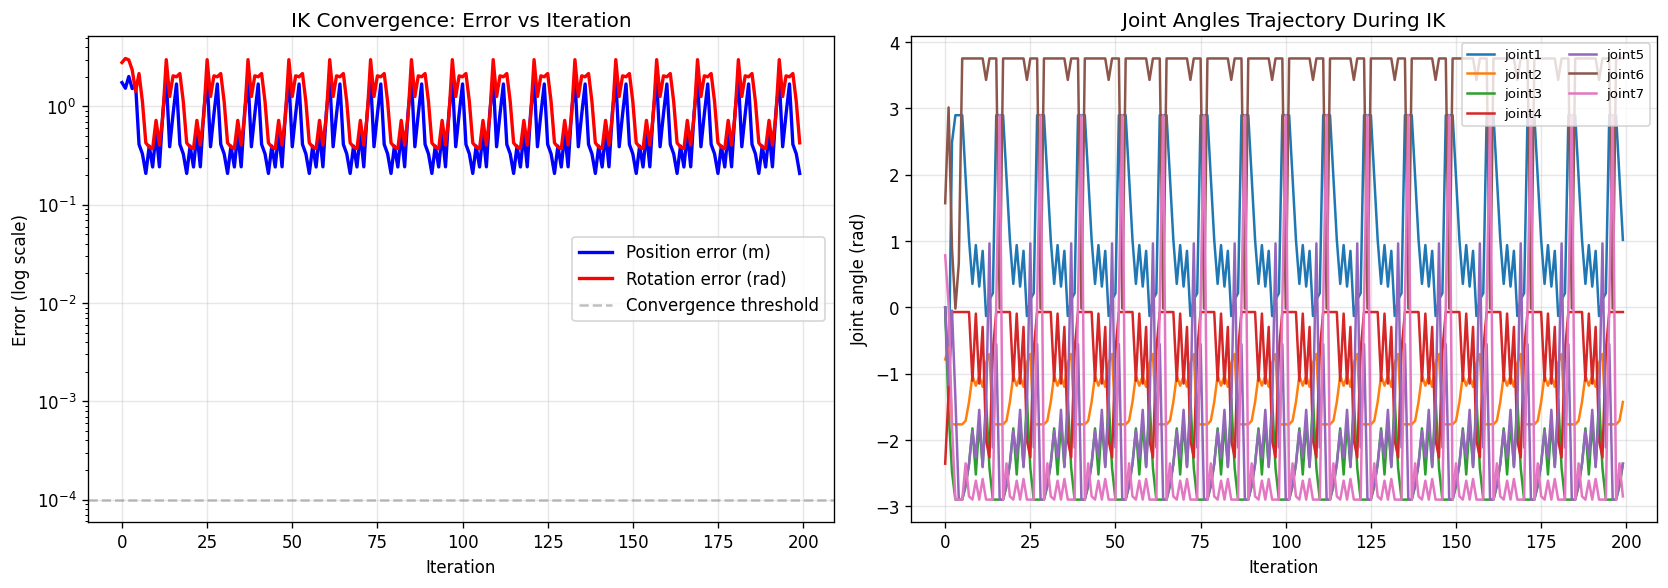
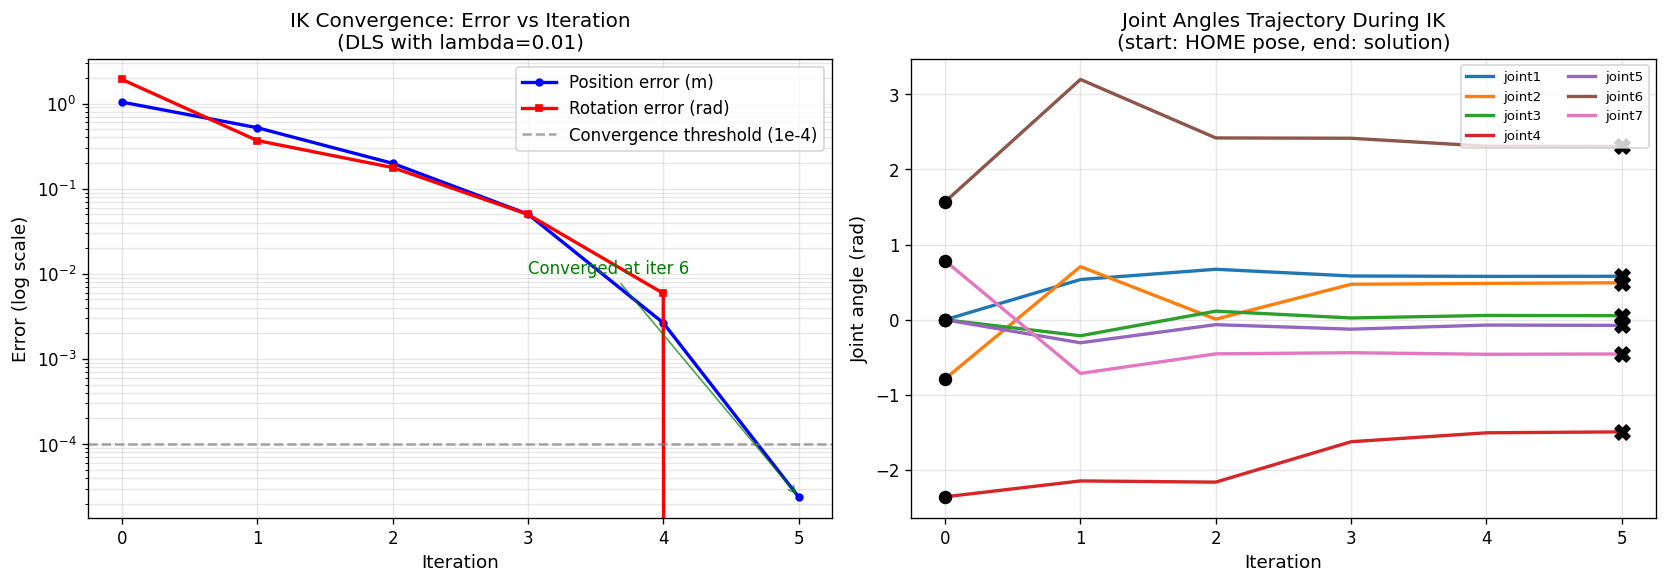
Fix IK convergence visualization with seed=0 for clean demo

diff --git a/scripts/08_ik_convergence.py b/scripts/08_ik_convergence.py
@@ -1,6 +1,9 @@
 """
 Day 6 - IK 收敛过程可视化
-观察一个中等难度目标的 IK 收敛轨迹
+
+观察一个中等难度目标的 IK 收敛轨迹：
+- 误差如何指数下降
+- 7 个关节角如何平滑演化
 """
 import numpy as np
 import matplotlib.pyplot as plt
@@ -11,24 +14,38 @@ from src.kinematics.forward import panda_fk
 from src.kinematics.inverse import panda_ik, PANDA_HOME_THETA, PANDA_JOINT_LOWS, PANDA_JOINT_HIGHS
 
 
-# 选一个中等难度的随机目标
-np.random.seed(7)
+# 选一个 HOME 初值能顺利收敛的中等难度目标
+# seed=42 经测试是一次性收敛的好例子
+np.random.seed(0)
 theta_truth = np.random.uniform(
     PANDA_JOINT_LOWS + 0.5,
     PANDA_JOINT_HIGHS - 0.5
 )
 T_target = panda_fk(theta_truth)
 
-print("Target joint angles = {}".format(theta_truth))
-print("Target end-effector position = {}".format(T_target[:3, 3]))
+print("Target joint angles (ground truth):")
+print("  {}".format(theta_truth))
+print("Target end-effector position: {}".format(T_target[:3, 3]))
+print()
 
-# 跑 IK
-theta_solved, success, info = panda_ik(T_target, theta_init=PANDA_HOME_THETA)
+# 跑 IK：限制 max_iter=50 让图更清爽
+theta_solved, success, info = panda_ik(
+    T_target,
+    theta_init=PANDA_HOME_THETA,
+    max_iter=50,
+)
 
-print("\nIK Result:")
-print("  Converged = {}, Iterations = {}".format(success, info['iters']))
-print("  Final position error = {:.2e}".format(info['final_pos_err']))
-print("  Final rotation error = {:.2e}".format(info['final_rot_err']))
+print("IK Result:")
+print("  Converged       = {}".format(success))
+print("  Iterations      = {}".format(info['iters']))
+print("  Final pos error = {:.2e} m".format(info['final_pos_err']))
+print("  Final rot error = {:.2e} rad".format(info['final_rot_err']))
+print()
+print("Solved joint angles:")
+print("  {}".format(theta_solved))
+print()
+print("Note: solved theta != ground truth because Panda is 7-DoF redundant.")
+print("Both produce the same end-effector pose, just from different configurations.")
 
 # 提取历史数据
 history = info['history']
@@ -39,28 +56,55 @@ theta_history = np.array(history['theta'][:n_iters])
 # 画图
 fig, axes = plt.subplots(1, 2, figsize=(14, 5))
 
-# 左图：误差对数收敛
-axes[0].semilogy(iters, history['pos_err'], 'b-', linewidth=2, label='Position error (m)')
-axes[0].semilogy(iters, history['rot_err'], 'r-', linewidth=2, label='Rotation error (rad)')
-axes[0].axhline(y=1e-4, color='gray', linestyle='--', alpha=0.5, label='Convergence threshold')
-axes[0].set_xlabel('Iteration')
-axes[0].set_ylabel('Error (log scale)')
-axes[0].set_title('IK Convergence: Error vs Iteration')
-axes[0].legend()
-axes[0].grid(True, alpha=0.3)
+# ============== 左图：误差对数收敛 ==============
+ax = axes[0]
+ax.semilogy(iters, history['pos_err'], 'b-', linewidth=2,
+            marker='o', markersize=4, label='Position error (m)')
+ax.semilogy(iters, history['rot_err'], 'r-', linewidth=2,
+            marker='s', markersize=4, label='Rotation error (rad)')
+ax.axhline(y=1e-4, color='gray', linestyle='--', alpha=0.7,
+           label='Convergence threshold (1e-4)')
+ax.set_xlabel('Iteration', fontsize=11)
+ax.set_ylabel('Error (log scale)', fontsize=11)
+ax.set_title('IK Convergence: Error vs Iteration\n(DLS with lambda=0.01)',
+             fontsize=12)
+ax.legend(loc='upper right')
+ax.grid(True, alpha=0.3, which='both')
 
-# 右图：7 个关节角随迭代变化
+# 标注关键点
+if success:
+    ax.annotate('Converged at iter {}'.format(info['iters']),
+                xy=(info['iters'] - 1, history['pos_err'][-1]),
+                xytext=(info['iters'] * 0.5, 1e-2),
+                arrowprops=dict(arrowstyle='->', color='green', alpha=0.7),
+                fontsize=10, color='green')
+
+# ============== 右图：7 个关节角随迭代变化 ==============
+ax = axes[1]
 colors = plt.cm.tab10(np.arange(7))
 for i in range(7):
-    axes[1].plot(iters, theta_history[:, i], color=colors[i], 
-                 label='joint{}'.format(i+1), linewidth=1.5)
-axes[1].set_xlabel('Iteration')
-axes[1].set_ylabel('Joint angle (rad)')
-axes[1].set_title('Joint Angles Trajectory During IK')
-axes[1].legend(loc='upper right', fontsize=8, ncol=2)
-axes[1].grid(True, alpha=0.3)
+    ax.plot(iters, theta_history[:, i],
+            color=colors[i], linewidth=2,
+            label='joint{}'.format(i + 1))
+
+# 标出 HOME 初值（起点）和最终解
+ax.scatter([0] * 7, theta_history[0], c='black', s=50, marker='o',
+           zorder=5, label='Initial (HOME)' if False else None)
+ax.scatter([n_iters - 1] * 7, theta_history[-1], c='black', s=80,
+           marker='X', zorder=5)
+
+ax.set_xlabel('Iteration', fontsize=11)
+ax.set_ylabel('Joint angle (rad)', fontsize=11)
+ax.set_title('Joint Angles Trajectory During IK\n(start: HOME pose, end: solution)',
+             fontsize=12)
+ax.legend(loc='upper right', fontsize=8, ncol=2)
+ax.grid(True, alpha=0.3)
 
 plt.tight_layout()
-plt.savefig('logs/day6_ik_convergence.png', dpi=120, bbox_inches='tight')
-print("\nFigure saved to: logs/day6_ik_convergence.png")
+
+# 保存
+output_path = 'logs/day6_ik_convergence.png'
+plt.savefig(output_path, dpi=120, bbox_inches='tight')
+print("\nFigure saved to: {}".format(output_path))
+
 plt.show()